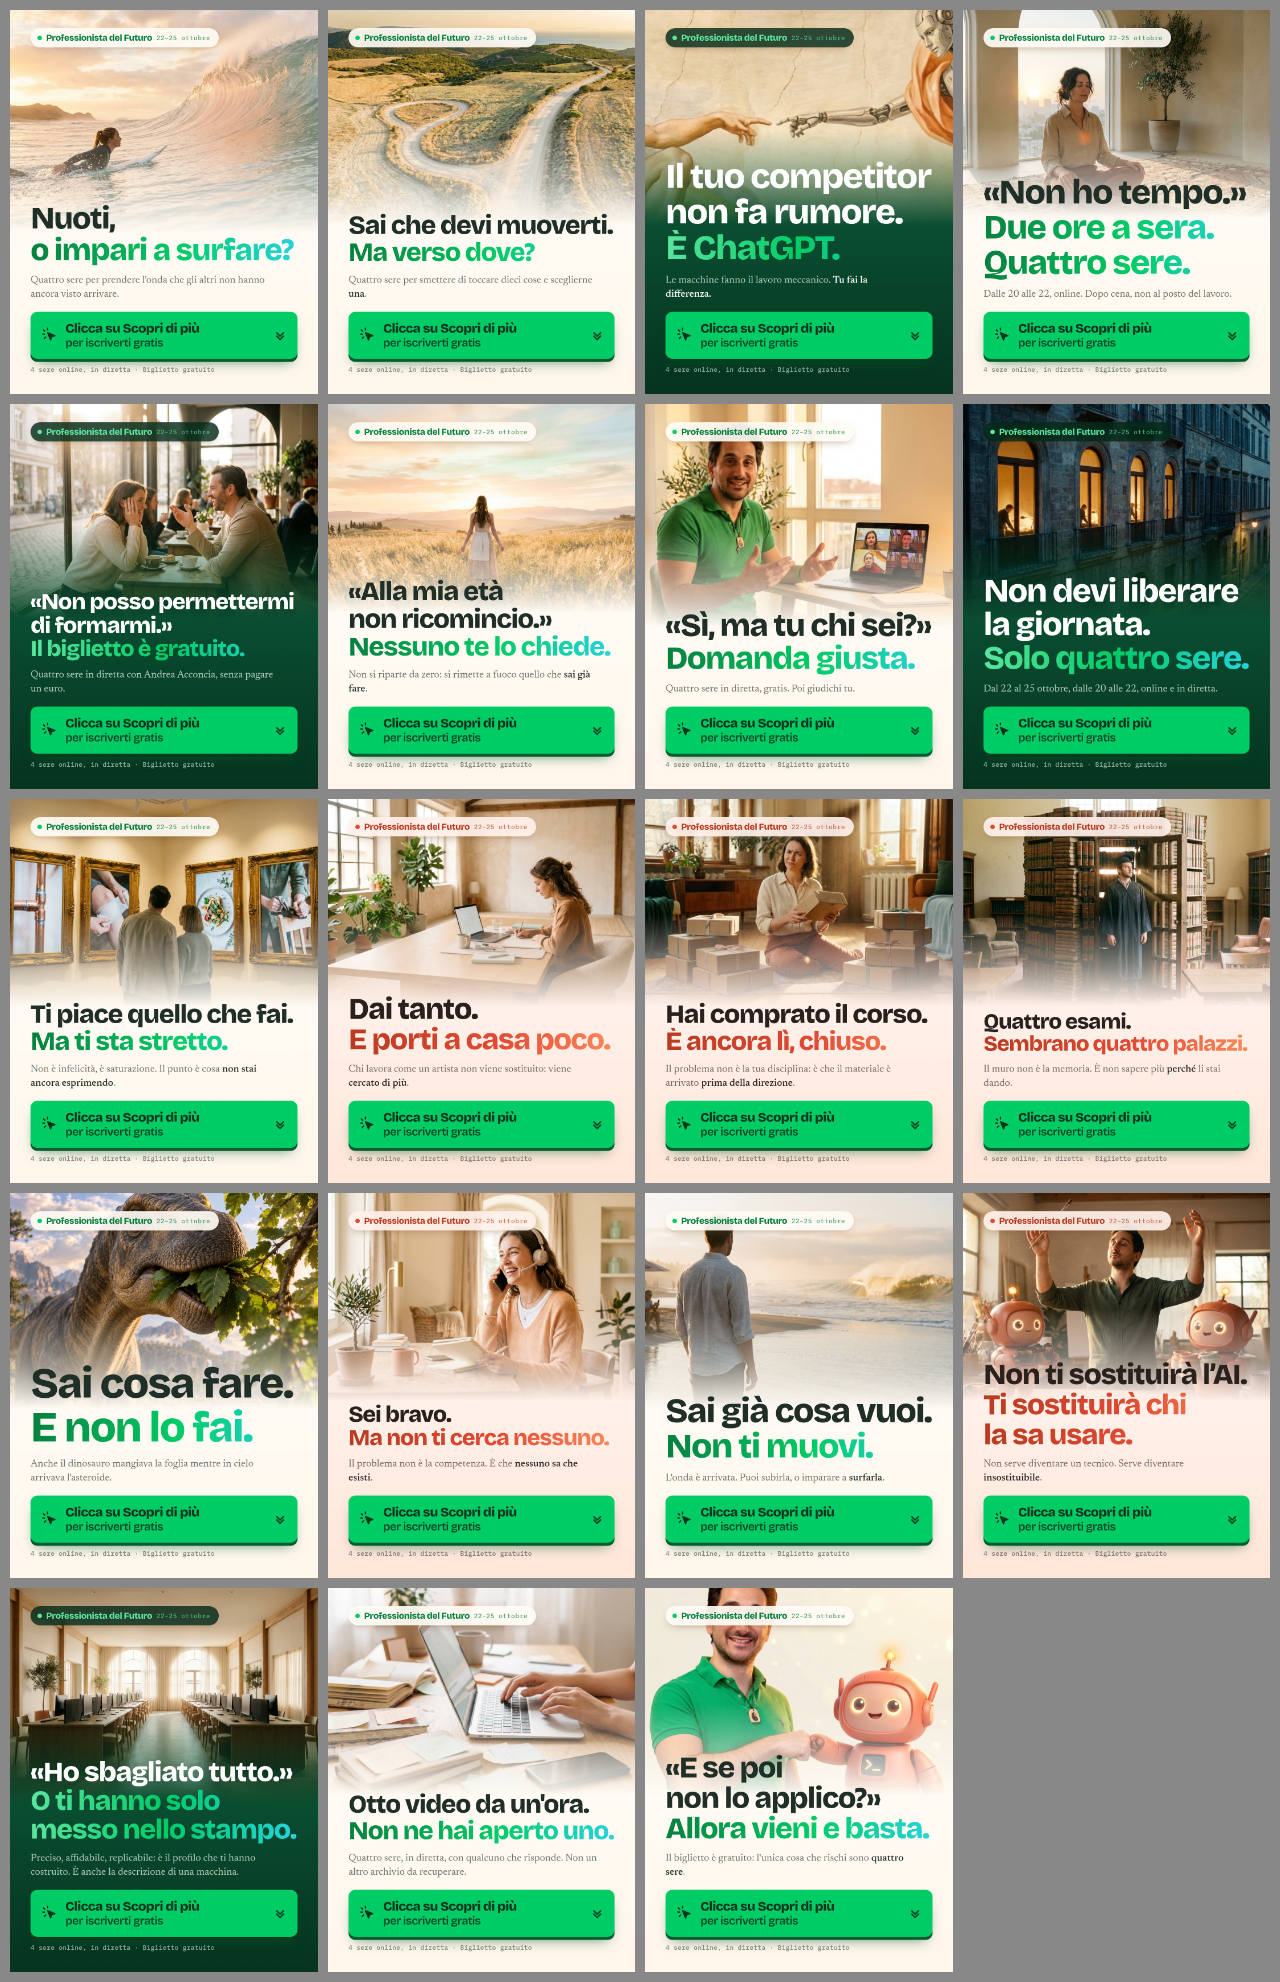
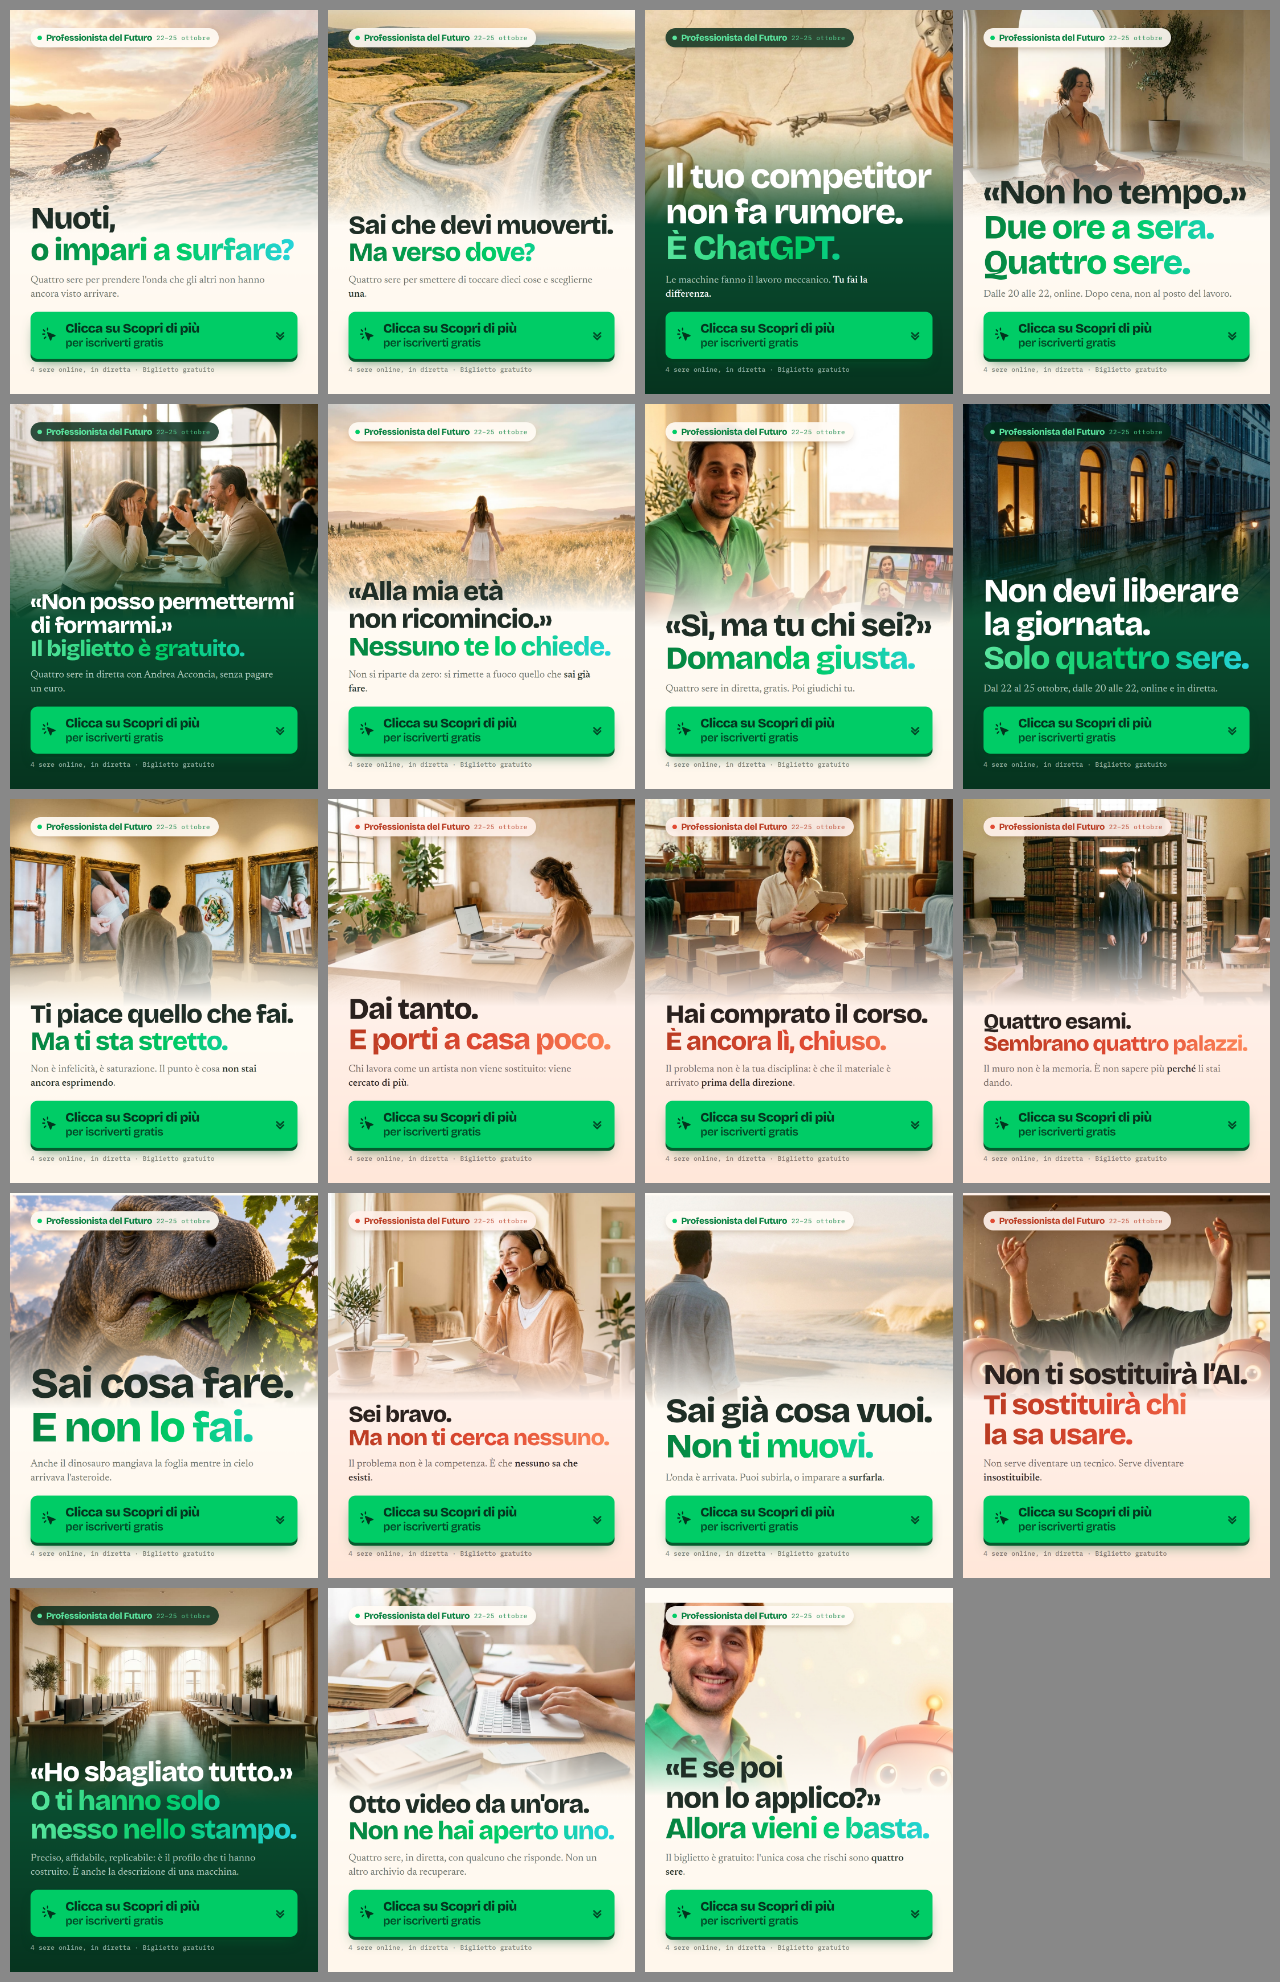
La pillola del nome non copre più teste e volti
Le foto della sales sono panoramiche: nel 4:5 riempiono la tela in altezza
e vengono tagliate solo ai lati, quindi object-position sull'asse verticale
non sposta nulla e il soggetto resta in cima, sotto la pillola.

Nuovo campo photoShift: sposta davvero l'immagine verso il basso di N%,
alzando lo zoom quanto basta a non scoprire il bordo alto. Applicato a p12
(occhi del dinosauro), p14, p15 e p19, più un ritocco su p06.

Claude-Session: https://claude.ai/code/session_011n96Cod1T52G2mX253xFTh

diff --git a/src/workshop/template.js b/src/workshop/template.js
@@ -60,6 +60,12 @@ const esc = (s) => String(s).replace(/&/g, '&amp;').replace(/</g, '&lt;').replac
 function html(ad, brand) {
   const t = THEME[ad.theme] || THEME.cream;
   const ph = ad.photoH || 58;
+  // photoShift: spinge la foto verso il basso di N% della sua altezza, così il
+  // soggetto esce da sotto la pillola del nome. Lo zoom cresce quanto basta a
+  // non scoprire il bordo alto.
+  const shift = ad.photoShift || 0;
+  const zoom = Math.max(ad.zoom || 1, shift ? 1 + (2 * shift) / 100 + 0.06 : 1);
+  const origin = shift ? '50% 50%' : (ad.focus || '50% 50%');
   // la foto resta pulita per i suoi primi due terzi, poi sfuma nel fondo della pagina
   const veil = `linear-gradient(to bottom,`
     + `rgba(${t.rgb},0) 0%,`
@@ -84,8 +90,9 @@ body{overflow:hidden;background:${t.base};-webkit-font-smoothing:antialiased}
 /* ---------- foto della sales, a tutta larghezza ---------- */
 .photo{position:absolute;left:0;right:0;top:0;height:${ph}%}
 .photo img{width:100%;height:100%;object-fit:cover;display:block;
-  object-position:${ad.focus || '50% 50%'};transform:scale(${ad.zoom || 1});
-  transform-origin:${ad.focus || '50% 50%'}}
+  object-position:${ad.focus || '50% 50%'};
+  transform:scale(${zoom.toFixed(3)}) translateY(${shift}%);
+  transform-origin:${origin}}
 /* il fondo della pagina risale sulla foto e la chiude: niente taglio netto */
 .veil{position:absolute;left:0;right:0;top:0;bottom:0;background:${veil}}
 

diff --git a/README.md b/README.md
@@ -118,6 +118,7 @@ Per ogni creativo in `ads.json`:
 | `theme` | `cream` (default), `deep` (verde profondo, stacca di più nel feed), `blush` (per i pain in cui il danno è già in corso) |
 | `photo` | file in `assets/sales/` |
 | `focus` / `zoom` | punto focale e ingrandimento del crop |
+| `photoShift` | spinge la foto verso il basso di N% — serve quando il soggetto è in cima al fotogramma e finirebbe sotto la pillola del nome; lo zoom si alza da solo quanto basta a non scoprire il bordo |
 | `photoH` | quanta tela occupa la foto, in % |
 | `head` | righe dell'headline: stringa = inchiostro, `{"hi":"..."}` = riga nel gradiente colorato |
 
@@ -155,6 +156,18 @@ rumore.
 | `p19-se-non-applico` | «E se poi non lo applico?» | 2/124 | 10-elemento-umano |
 
 `_contact-sheet.png` è il provino di tutti e 19 insieme.
+
+### La pillola non deve mai coprire una faccia
+
+Quasi tutte le foto della sales sono panoramiche: nel formato 4:5 riempiono la
+tela in altezza e vengono tagliate solo ai lati, quindi il soggetto resta dove
+l'ha messo il fotografo — spesso in cima, proprio sotto la pillola del nome.
+`object-position` sull'asse verticale in quel caso non fa niente. Per questo
+c'è `photoShift`: sposta davvero l'immagine verso il basso.
+
+Oggi lo usano `p06` (8), `p12` (13), `p14` (13), `p15` (13) e `p19` (21). Se si
+cambia una foto, conviene ricontrollare la fascia alta del creativo prima di
+mandarlo in advertising.
 
 ### Due pain che non sono diventati creativi
 
